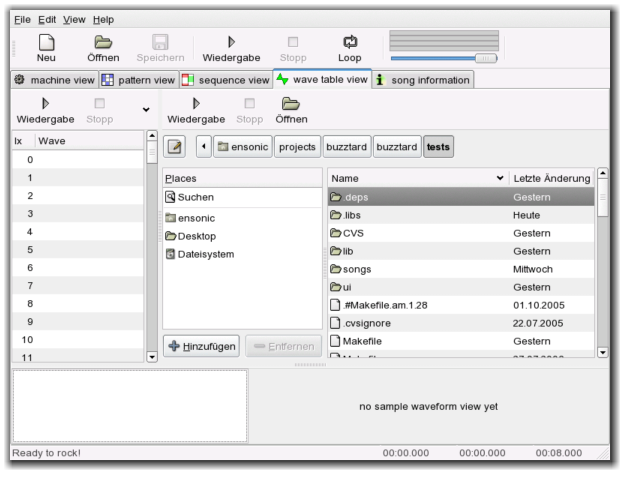
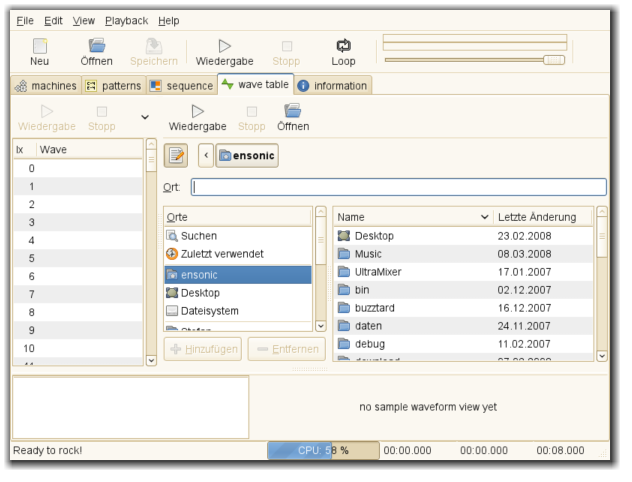
* TODO: 	* docs/help/bt-edit/C/Makefile.am: 	* docs/help/bt-edit/C/bt-edit.xml: 	* docs/help/bt-edit/C/figures/page-wavetable-view.png: 	  Update docs. 	* tests/bt-check.c: 	  More comments. Disable theme tweaking and use default.

Changed region(s): [[0.0, 0.0311, 0.9921, 0.9647], [0.5712, 0.8402, 0.7816, 0.8714]]

diff --git a/tests/bt-check.c b/tests/bt-check.c
@@ -692,8 +692,10 @@ void check_setup_test_server(void) {
   GError *error=NULL;
   gchar display_file[18];
   gchar lock_file[14];
+  // we can also use Xnest, but the without "-screen"
   gchar *server_argv[]={
     "Xvfb",
+    //"Xnest",
     ":9",
     "-ac",
     "-nolisten","tcp",
@@ -833,11 +835,12 @@ void check_setup_test_display(void) {
           GtkSettings *test_settings;
           //gdk_threads_enter();
           if((test_settings = gtk_settings_get_for_screen(test_screen))) {
+            // this just switches to the default theme
+            //g_object_set(test_settings,"gtk-theme-name",NULL,NULL);
             /* Is there a bug in gtk+? None of this reliable creates a working
              * theme setup
               */
             //g_object_set(test_settings,"gtk-theme-name",theme_name,NULL);
-            g_object_set(test_settings,"gtk-theme-name",NULL,NULL);
             //gtk_rc_reparse_all_for_settings(test_settings,TRUE);
             //gtk_rc_reset_styles(test_settings);
             GST_INFO("theme switched ");
